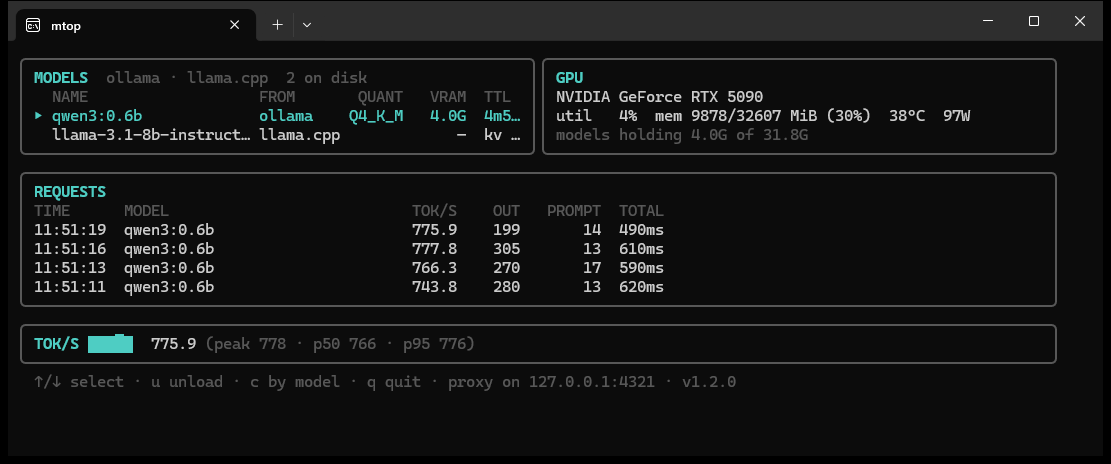
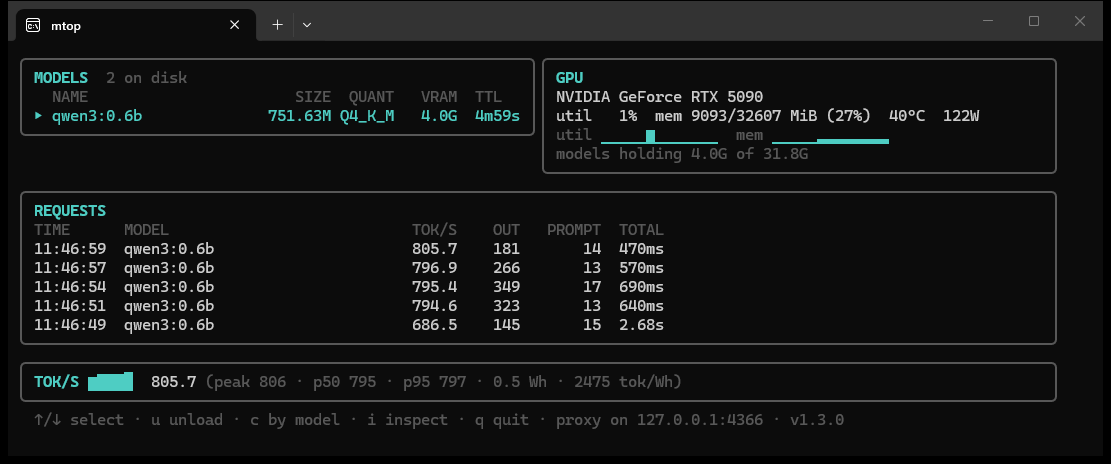
fix: strip control bytes from inspector text, rune-safe wrap, url-parse host; refresh media

diff --git a/internal/proxy/proxy.go b/internal/proxy/proxy.go
@@ -155,13 +155,25 @@ func promptOf(body []byte) string {
 	return ""
 }
 
-// ponytail: 2 KB is plenty to eyeball a prompt; keeps memory bounded.
+// clip strips terminal control bytes and caps length by rune. The
+// inspector prints captured prompts and completions to the terminal, so
+// a model could otherwise smuggle escape sequences (clipboard writes,
+// title spoofing) through its output. Drop them at capture. Keep \n and
+// \t since the inspector wraps on newlines. 2 KB is plenty to eyeball.
 func clip(s string) string {
 	const max = 2048
-	if len(s) > max {
-		return s[:max] + "…"
+	var b strings.Builder
+	n := 0
+	for _, r := range s {
+		if r == '\n' || r == '\t' || (r >= 0x20 && r != 0x7f && !(r >= 0x80 && r <= 0x9f)) {
+			b.WriteRune(r)
+			if n++; n >= max {
+				b.WriteString("…")
+				break
+			}
+		}
 	}
-	return s
+	return b.String()
 }
 
 func (p *Proxy) Listen(addr string) error {

diff --git a/internal/ollama/client.go b/internal/ollama/client.go
@@ -5,6 +5,7 @@ import (
 	"fmt"
 	"io"
 	"net/http"
+	"net/url"
 	"strings"
 	"time"
 )
@@ -18,14 +19,14 @@ func New(base string) *Client {
 	return &Client{base: base, hc: &http.Client{Timeout: 3 * time.Second}}
 }
 
-// Host is the bare host:port of the server, for labelling rows when
-// more than one ollama is being watched.
+// Host is the host:port of the server, for labelling rows when more
+// than one ollama is being watched. url.Parse so a userinfo or path in
+// the base url doesn't leak into the label.
 func (c *Client) Host() string {
-	s := c.base
-	if i := strings.Index(s, "://"); i >= 0 {
-		s = s[i+3:]
+	if u, err := url.Parse(c.base); err == nil && u.Host != "" {
+		return u.Host
 	}
-	return strings.TrimSuffix(s, "/")
+	return c.base
 }
 
 type Model struct {

diff --git a/internal/proxy/proxy_test.go b/internal/proxy/proxy_test.go
@@ -24,6 +24,16 @@ func proxyForInspect(t *testing.T, upstream string, store *Store, inspect bool) 
 	return front
 }
 
+func TestClipStripsControlBytes(t *testing.T) {
+	got := clip("hi\x1b]52;c;evil\x07 there\nok\tgo")
+	if strings.ContainsRune(got, 0x1b) || strings.ContainsRune(got, 0x07) {
+		t.Fatalf("escape bytes survived: %q", got)
+	}
+	if !strings.Contains(got, "hi") || !strings.Contains(got, "there") || !strings.Contains(got, "\n") || !strings.Contains(got, "\t") {
+		t.Fatalf("dropped text it should keep: %q", got)
+	}
+}
+
 func TestInspectCaptures(t *testing.T) {
 	upstream := httptest.NewServer(http.HandlerFunc(func(w http.ResponseWriter, r *http.Request) {
 		io.WriteString(w, `{"model":"m","done":false,"response":"hello "}`+"\n")

diff --git a/internal/ui/app.go b/internal/ui/app.go
@@ -549,11 +549,12 @@ func wrap(s string, width int) string {
 	}
 	var out []string
 	for _, line := range strings.Split(s, "\n") {
-		for len(line) > width {
-			out = append(out, line[:width])
-			line = line[width:]
+		r := []rune(line) // slice runes, not bytes, so we don't cut a utf-8 char
+		for len(r) > width {
+			out = append(out, string(r[:width]))
+			r = r[width:]
 		}
-		out = append(out, line)
+		out = append(out, string(r))
 		if len(out) >= 12 {
 			out = append(out, dimSt.Render("…"))
 			return strings.Join(out, "\n")

diff --git a/docs/design.md b/docs/design.md
@@ -49,6 +49,8 @@ The proxy forwards everything to ollama, including the endpoints that delete or 
 
 With `-history` the proxied requests get appended to `~/.mtop/history.jsonl` and read back on the next start, so the stats panes aren't empty after a restart. The file is trimmed to the last 256 on load. `-notify` fires a desktop notification (osascript, notify-send, or a powershell toast, whatever the OS has) the first time a GPU crosses the alert line.
 
+`-ollama` takes a comma-list to watch several boxes at once; rows get tagged by host. `-inspect` keeps the prompt and completion text (control bytes stripped so a model can't smuggle escape sequences into the terminal, 2 KB cap) so pressing `i` shows the last request in full with its load/prompt/decode split. The GPU pane carries util and memory sparklines, and the TOK/S line totals session watt-hours and tokens-per-Wh from GPU power, an estimate since it reads the whole card, not just inference.
+
 ## Stack
 
 Go + bubbletea + lipgloss. It's what this genre of tool is built with, the rendering problems are solved, and it cross-compiles to single static binaries for all three platforms in one CI job.